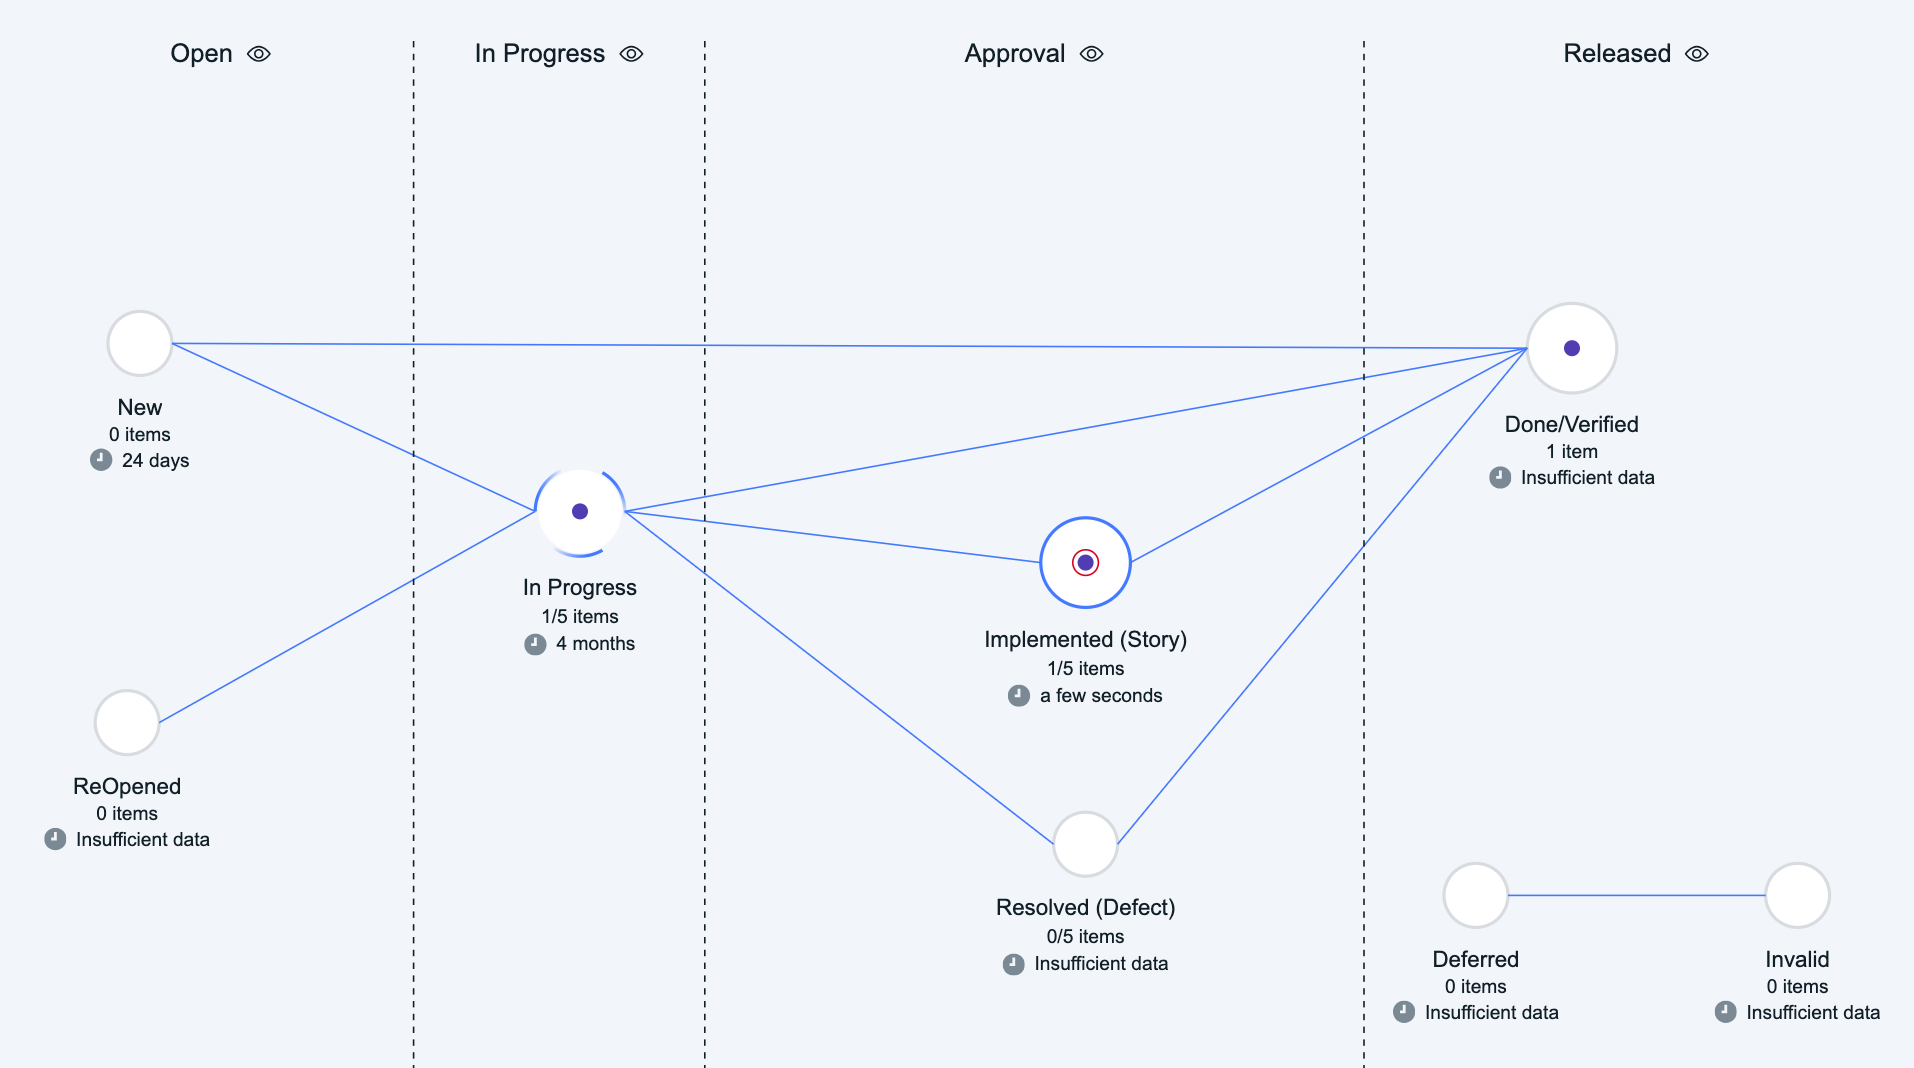
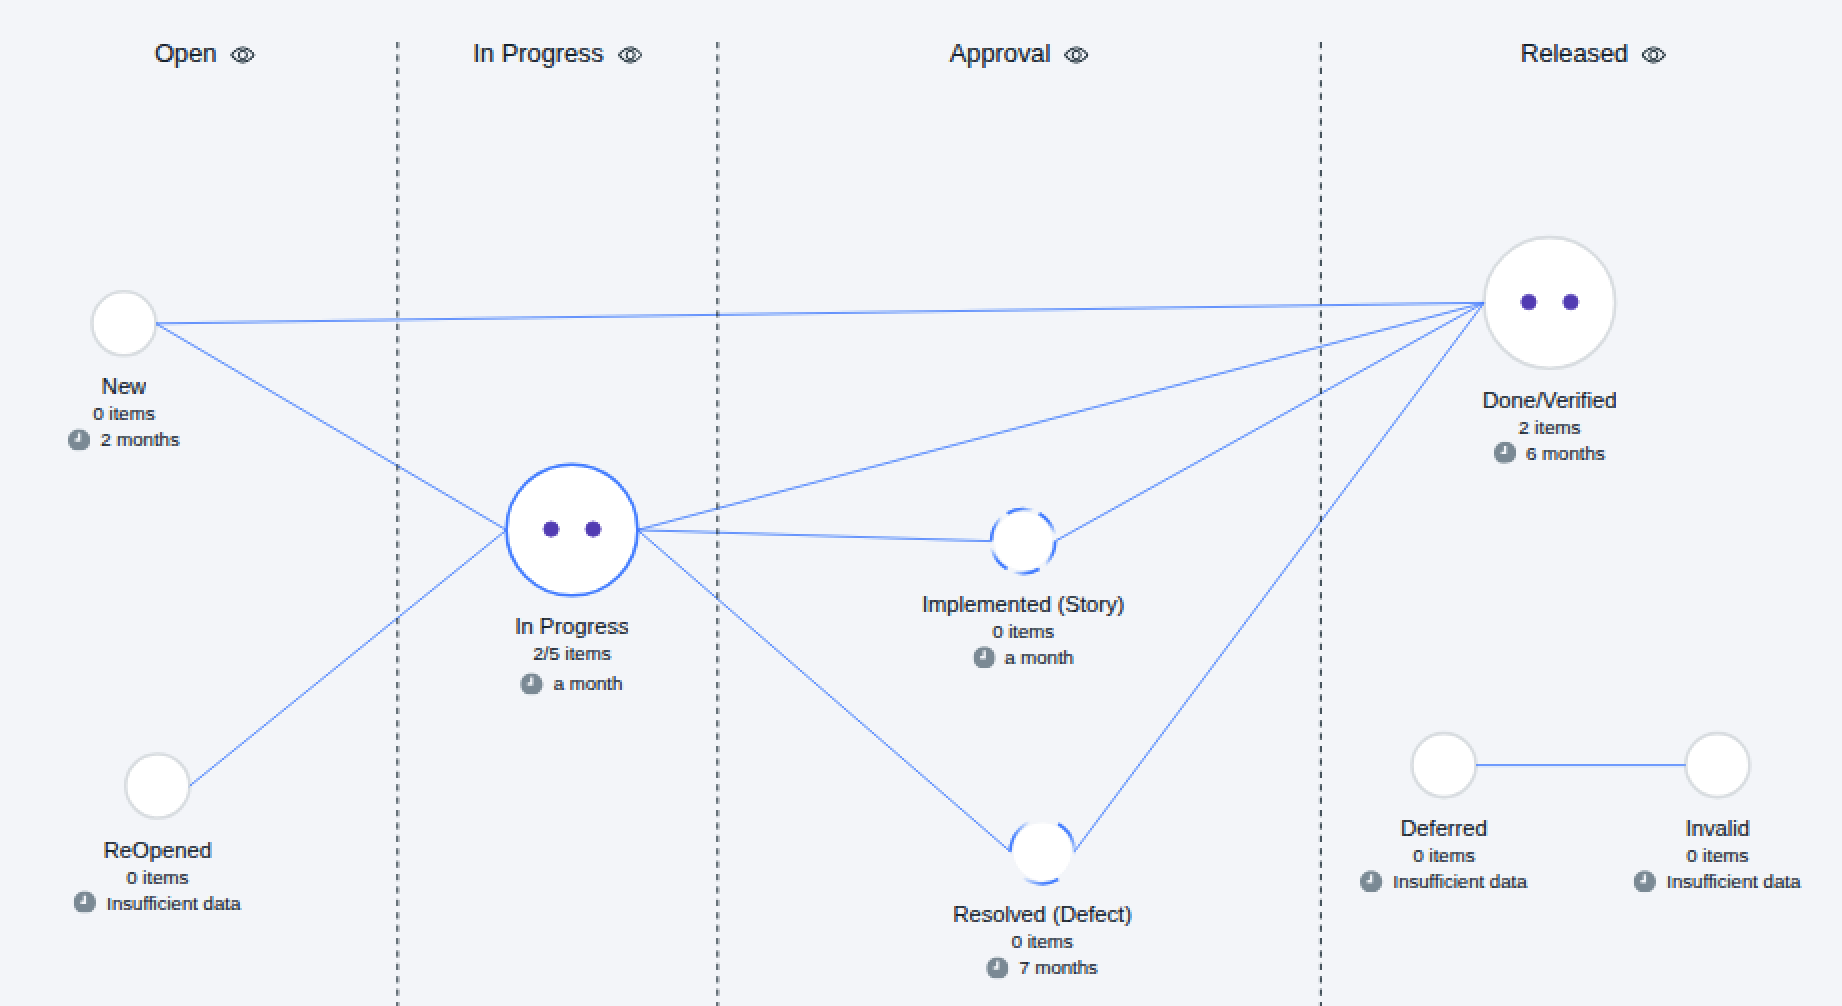
Up to end of Demo 1.2

diff --git a/docs/demonstration/index.md b/docs/demonstration/index.md
@@ -14,9 +14,13 @@ The following table shares information on which ELM projects have been visualize
 |:------------- |:------------- |:------------- |
 |JKE Banking (Change Management) | JKE Banking Demo (Change Management) | The JKE Banking project was created in ELM using the Money that Matters sample data which includes work items in EWM and requirements added to ERM. A DevOps Velocity plugin has configured allowing the EWM data to be sync'd with Velocity and displayed in the value stream. | 
 | JKE Banking (Requirements Management) | JKE Banking Demo (Requirements Management) | The JKE Banking Demo (Requirements Management) value stream is visualizing requirements synchronized by integrating DevOps Velocity with JKE Banking (Requirements Management) project loaded by the sample app.
-| Meter Reader GC | Meter Reader Demo Global Configuration | This value stream is visualizing requirements synchronized with DevOPs Velocity from a ERM project which has Global Configuration enabled providing more robust requirements management capabilities enabling the use of DOORs NG components, streams and baselines. |
+| Meter Reader GC | Meter Reader Demo (Global Configuration) | This value stream is visualizing requirements synchronized with DevOPs Velocity from a ERM project which has Global Configuration enabled providing more robust requirements management capabilities enabling the use of DOORs NG components, streams and baselines. |
 
-**NOTE:** The images provided in the steps below may not exactly match what is seen in the DevOps Velocity browser window. Understand that they are provided as a reference as you work through the demo steps.
+<br/>
+
+**IMPORTANT: DevOps Velocity is a time sensitive value stream mapping solution which regularly pulls data from an active delivery pipeline to calculate KPIs, stage times, etc... However, the data contained in the learning image is stagant as a development team is not regularly working in the image and updating work items or requirements. As a result, the images provided in the steps below may not exactly match what is seen in the DevOps Velocity browser window. Understand that they are provided as a reference as you work through the demo steps.**
+
+<br/>
 
 ## Understanding the Business Challenge addressed in this demonstration
 
@@ -73,7 +77,7 @@ The value stream for this demo is architected to align with ELM's default workfl
 
 | **Step** | <div style="width:250px">**Details**</div>  | **Additional Information** |
 |:-------------:|:------------- |:------------- |
-| 1 | Launch the Chrome browser from the Windows toolbar and click on the DevOps Velocity bookmark</br></br>[Link to Velocity](https://devops.velocity.com) | <img src="media/d1_1.png" alt="d1_1" style="width:75%; height:auto;"> |
+| 1 | Launch the Chrome browser from the Windows toolbar and click on the DevOps Velocity bookmark</br> | <img src="media/d1_1.png" alt="d1_1" style="width:75%; height:auto;"> |
 | 2 | Authenticate with Velocity using "admin" for both the user id and password.  | <img src="media/d1_2.png" alt="d1_2" style="width:100%; height:auto;"> |
 | 3 | Click the Value Stream icon on the navigation bar (LHS of browser window) in Velocity. | <img src="media/d1_3.png" alt="d1_3" style="width:50%; height:auto;"> |
 | 4 | Select the "JKE Banking Demo (Change Management)" value stream from the list of value streams presented. | <img src="media/d1_4.png" alt="d1_4" style="width:75%; height:auto;"> |
@@ -107,6 +111,12 @@ In additional to the lead time and cycle time KPIs, other KPIS are available - A
 
 This section of the demonstration will share details on the many of the KPIs readily available in DevOps Velocity.
 
+<br/>
+
+**IMPORTANT: DevOps Velocity is a time sensitive value stream mapping solution which regularly pulls data from an active delivery pipeline to calculate KPIs, stage times, etc... However, the data contained in the learning image is stagant as a development team is not regularly working in the image and updating work items or requirements. As a result, the images provided in the steps below may not exactly match what is seen in the DevOps Velocity browser window. Understand that they are provided as a reference as you work through the demo steps.**
+
+<br/>
+
 | **Step** | <div style="width:250px">**Details**</div>  | **Additional Information** |
 |:-------------:|:------------- |:------------- |
 | 1 |  Working in the "JKE Banking Demo (Change Management)" value stream, locate the Lead Time and Cycle Time KPis. | <img src="media/d1_26.png" alt="d1_26" style="width:100%; height:auto;"> |
@@ -115,10 +125,9 @@ This section of the demonstration will share details on the many of the KPIs rea
 | 4 | Click on the "Start Stage" listbox and confirm that the "In Progress" stage is set. | <img src="media/d1_28.png" alt="d1_28" style="width:100%; height:auto;"> |
 | 5 | Click on the "End Stage" listbox and update selecting both the "Implemented (Story)" and "Resolved (Defect)" stages. Click "Update" when complete. | <img src="media/d1_29.png" alt="d1_29" style="width:100%; height:auto;"> | 
 | **NOTE:** | Changing the Start and End stages for any one of the Lead Time and/or Cycle Time KPIs forces a re-calculation of the metrics in DevOps Velocity. In the case where there are multiple Start and/or End Stages, DevOps Velocity calculates an average time considering all work items which have moved from the selected start stage(s) to the selected end stage(s). |  |
-| **HINT:** | Due to the older ELM data being synchronized with DevOps Velocity, the trending feature is showing infinity. However, as work items change state and new data is added, the trending KPIs will provide very important data. Red arrows indicate that the delivery pipeline is getting slower and Velocity will calculate and display a percentage of how much of a increase in time. Green arrows indicate positive change and again, Velocity will display a percentage indicating the level of improvement | <img src="media/d1_30.png" alt="d1_30" style="width:25%; height:auto;"> | 
 | 6 | Click on the "+" icon (to the right of the Lead Time and Cycle Time KPIs) to add some additional metrics to the metrics bar. | <img src="media/d1_31.png" alt="d1_31" style="width:50%; height:auto;"> |
-| 7 | From the list provided, select "Average Load", "Throughput", and "Distribution" as 3 examples. | <img src="media/d1_32.png" alt="d1_32" style="width:100%; height:auto;"> |
-| 8 | The metrics bar update should be display the additions similar to the following: <br/><br/><img src="media/d1_33.png" alt="d1_33" style="width:100%; height:auto;"> <br/> <br/> <strong>Metrics Definitions:</strong> <br/><br/> <strong>Average Load</strong>  - The number of work items active or waiting in a value stream at a given time. Load measures utilization capabilities of value streams related to productivity in the process flow. "Active" refers to the stages from the lead-time start until the lead-time end. <br/> <strong>Throughput</strong> - The rate of work items completed during a period of time. Improving throughput can result in better responsiveness to customer requirements and may yield lead time reductions for value streams. <br/> <strong>Distribution</strong> - The proportion of different types of work items over time. This provides teams visibility into the type of work being completed (features, defects, tasks, and so forth.) <br/><br/> For more information about DevOps Velocity Metrics, visit [Velocity's product documentation page](https://www.ibm.com/docs/en/devops-velocity/5.1.0?topic=metrics-displaying#vsm_metricsBar). |   |
+| 7 | From the list provided, select "Throughput" and "Distribution" as 2 examples. | <img src="media/d1_32.png" alt="d1_32" style="width:100%; height:auto;"> |
+| 8 | The metrics bar update should be display the additions similar to the following: <br/><br/><img src="media/d1_33.png" alt="d1_33" style="width:100%; height:auto;"> <br/> <br/> <strong>Metrics Definitions:</strong> <br/><br/> <strong>Throughput</strong> - The rate of work items completed during a period of time. Improving throughput can result in better responsiveness to customer requirements and may yield lead time reductions for value streams. <br/> <strong>Distribution</strong> - The proportion of different types of work items over time. This provides teams visibility into the type of work being completed (features, defects, tasks, and so forth.) <br/><br/> For more information about DevOps Velocity Metrics, visit [Velocity's product documentation page](https://www.ibm.com/docs/en/devops-velocity/5.1.0?topic=metrics-displaying#vsm_metricsBar). |   |
 | **NOTE:** | Feel free to explore other metrics, however, some may not display data points due to a lack of data in Velocity's repository. |   |
 
 Congratulations on successfully completing this section of the demonstration.
